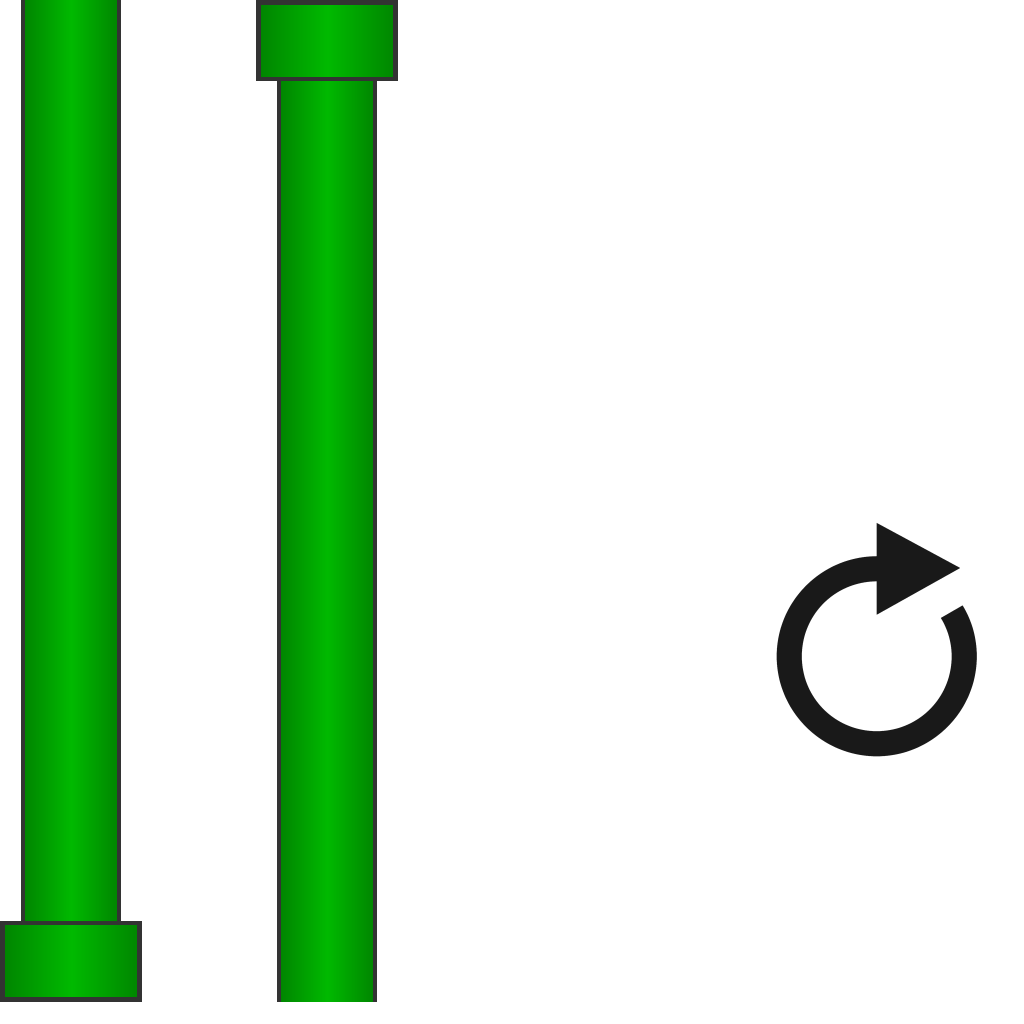
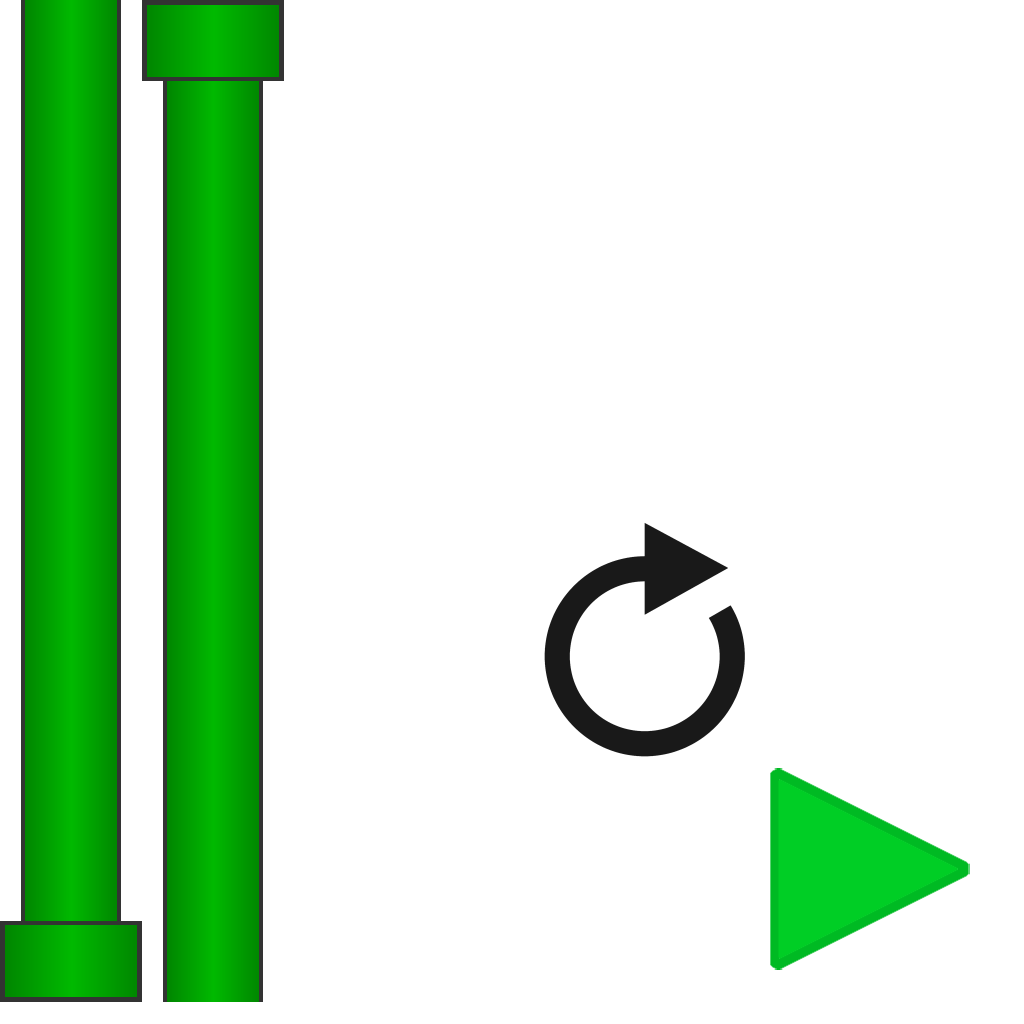
Add files via upload

Changed region(s): [[0.125, 0.0, 0.4062, 1.0], [0.5312, 0.5, 0.9688, 0.75], [0.75, 0.75, 0.9688, 0.9688]]

diff --git a/scripts/c3runtime.js b/scripts/c3runtime.js
@@ -3557,7 +3557,6 @@ self.C3_GetObjectRefTable = function () {
 		C3.Plugins.Sprite.Acts.MoveAtAngle,
 		C3.Plugins.System.Acts.AddVar,
 		C3.Plugins.System.Cnds.CompareVar,
-		C3.Plugins.System.Cnds.Else,
 		C3.Plugins.Mouse.Cnds.OnClick,
 		C3.Plugins.Keyboard.Cnds.OnKey,
 		C3.Plugins.Touch.Cnds.OnTapGesture,
@@ -3571,9 +3570,9 @@ self.C3_GetObjectRefTable = function () {
 		C3.Plugins.Sprite.Cnds.OnCollision,
 		C3.Plugins.Sprite.Cnds.IsOverlapping,
 		C3.Plugins.Sprite.Cnds.IsOutsideLayout,
-		C3.Plugins.System.Acts.GoToLayoutByName,
-		C3.Plugins.Mouse.Cnds.OnObjectClicked,
-		C3.Plugins.Keyboard.Cnds.IsKeyDown
+		C3.Plugins.System.Acts.GoToLayout,
+		C3.Plugins.Touch.Cnds.OnTapGestureObject,
+		C3.Plugins.Mouse.Cnds.OnObjectClicked
 	];
 };
 self.C3_JsPropNameTable = [
@@ -3587,13 +3586,15 @@ self.C3_JsPropNameTable = [
 	{bestScore: 0},
 	{Dictionary: 0},
 	{TextScore: 0},
-	{Text: 0},
-	{Text2: 0},
-	{Text3: 0},
+	{TextLose: 0},
+	{TextLoseScore: 0},
+	{TextLoseBestScore: 0},
 	{Sprite: 0},
 	{Replay: 0},
 	{Mouse: 0},
 	{Keyboard: 0},
+	{buttonPlay: 0},
+	{ТайловыйФон: 0},
 	{speedX: 0},
 	{height: 0},
 	{bias: 0},
@@ -3708,15 +3709,23 @@ self.C3_ExpressionFuncs = [
 		},
 		() => 90,
 		() => 0.005,
+		() => 10,
 		() => 1,
-		() => 20,
-		() => 0.2,
 		() => -12,
 		() => -70,
 		() => 800,
 		p => {
-			const f0 = p._GetNode(0).GetBoundMethod();
-			return () => f0(0, 900);
+			const v0 = p._GetNode(0).GetVar();
+			const f1 = p._GetNode(1).GetBoundMethod();
+			return () => ((v0.GetValue() + f1(0, 600)) - 300);
+		},
+		p => {
+			const v0 = p._GetNode(0).GetVar();
+			const v1 = p._GetNode(1).GetVar();
+			const v2 = p._GetNode(2).GetVar();
+			const v3 = p._GetNode(3).GetVar();
+			const v4 = p._GetNode(4).GetVar();
+			return () => ((v0.GetValue() + (((v1.GetValue()) < (0) ? 1 : 0) * (0 - v2.GetValue()))) + (((v3.GetValue()) > (600) ? 1 : 0) * (600 - v4.GetValue())));
 		},
 		p => {
 			const v0 = p._GetNode(0).GetVar();
@@ -3728,7 +3737,7 @@ self.C3_ExpressionFuncs = [
 			return () => and("", v0.GetValue());
 		},
 		() => -1440,
-		() => "Lose",
+		() => 1440,
 		p => {
 			const v0 = p._GetNode(0).GetVar();
 			return () => and("Счёт: ", v0.GetValue());
@@ -3736,8 +3745,7 @@ self.C3_ExpressionFuncs = [
 		p => {
 			const v0 = p._GetNode(0).GetVar();
 			return () => and("Рекорд: ", v0.GetValue());
-		},
-		() => "Plaing"
+		}
 ];
 
 
